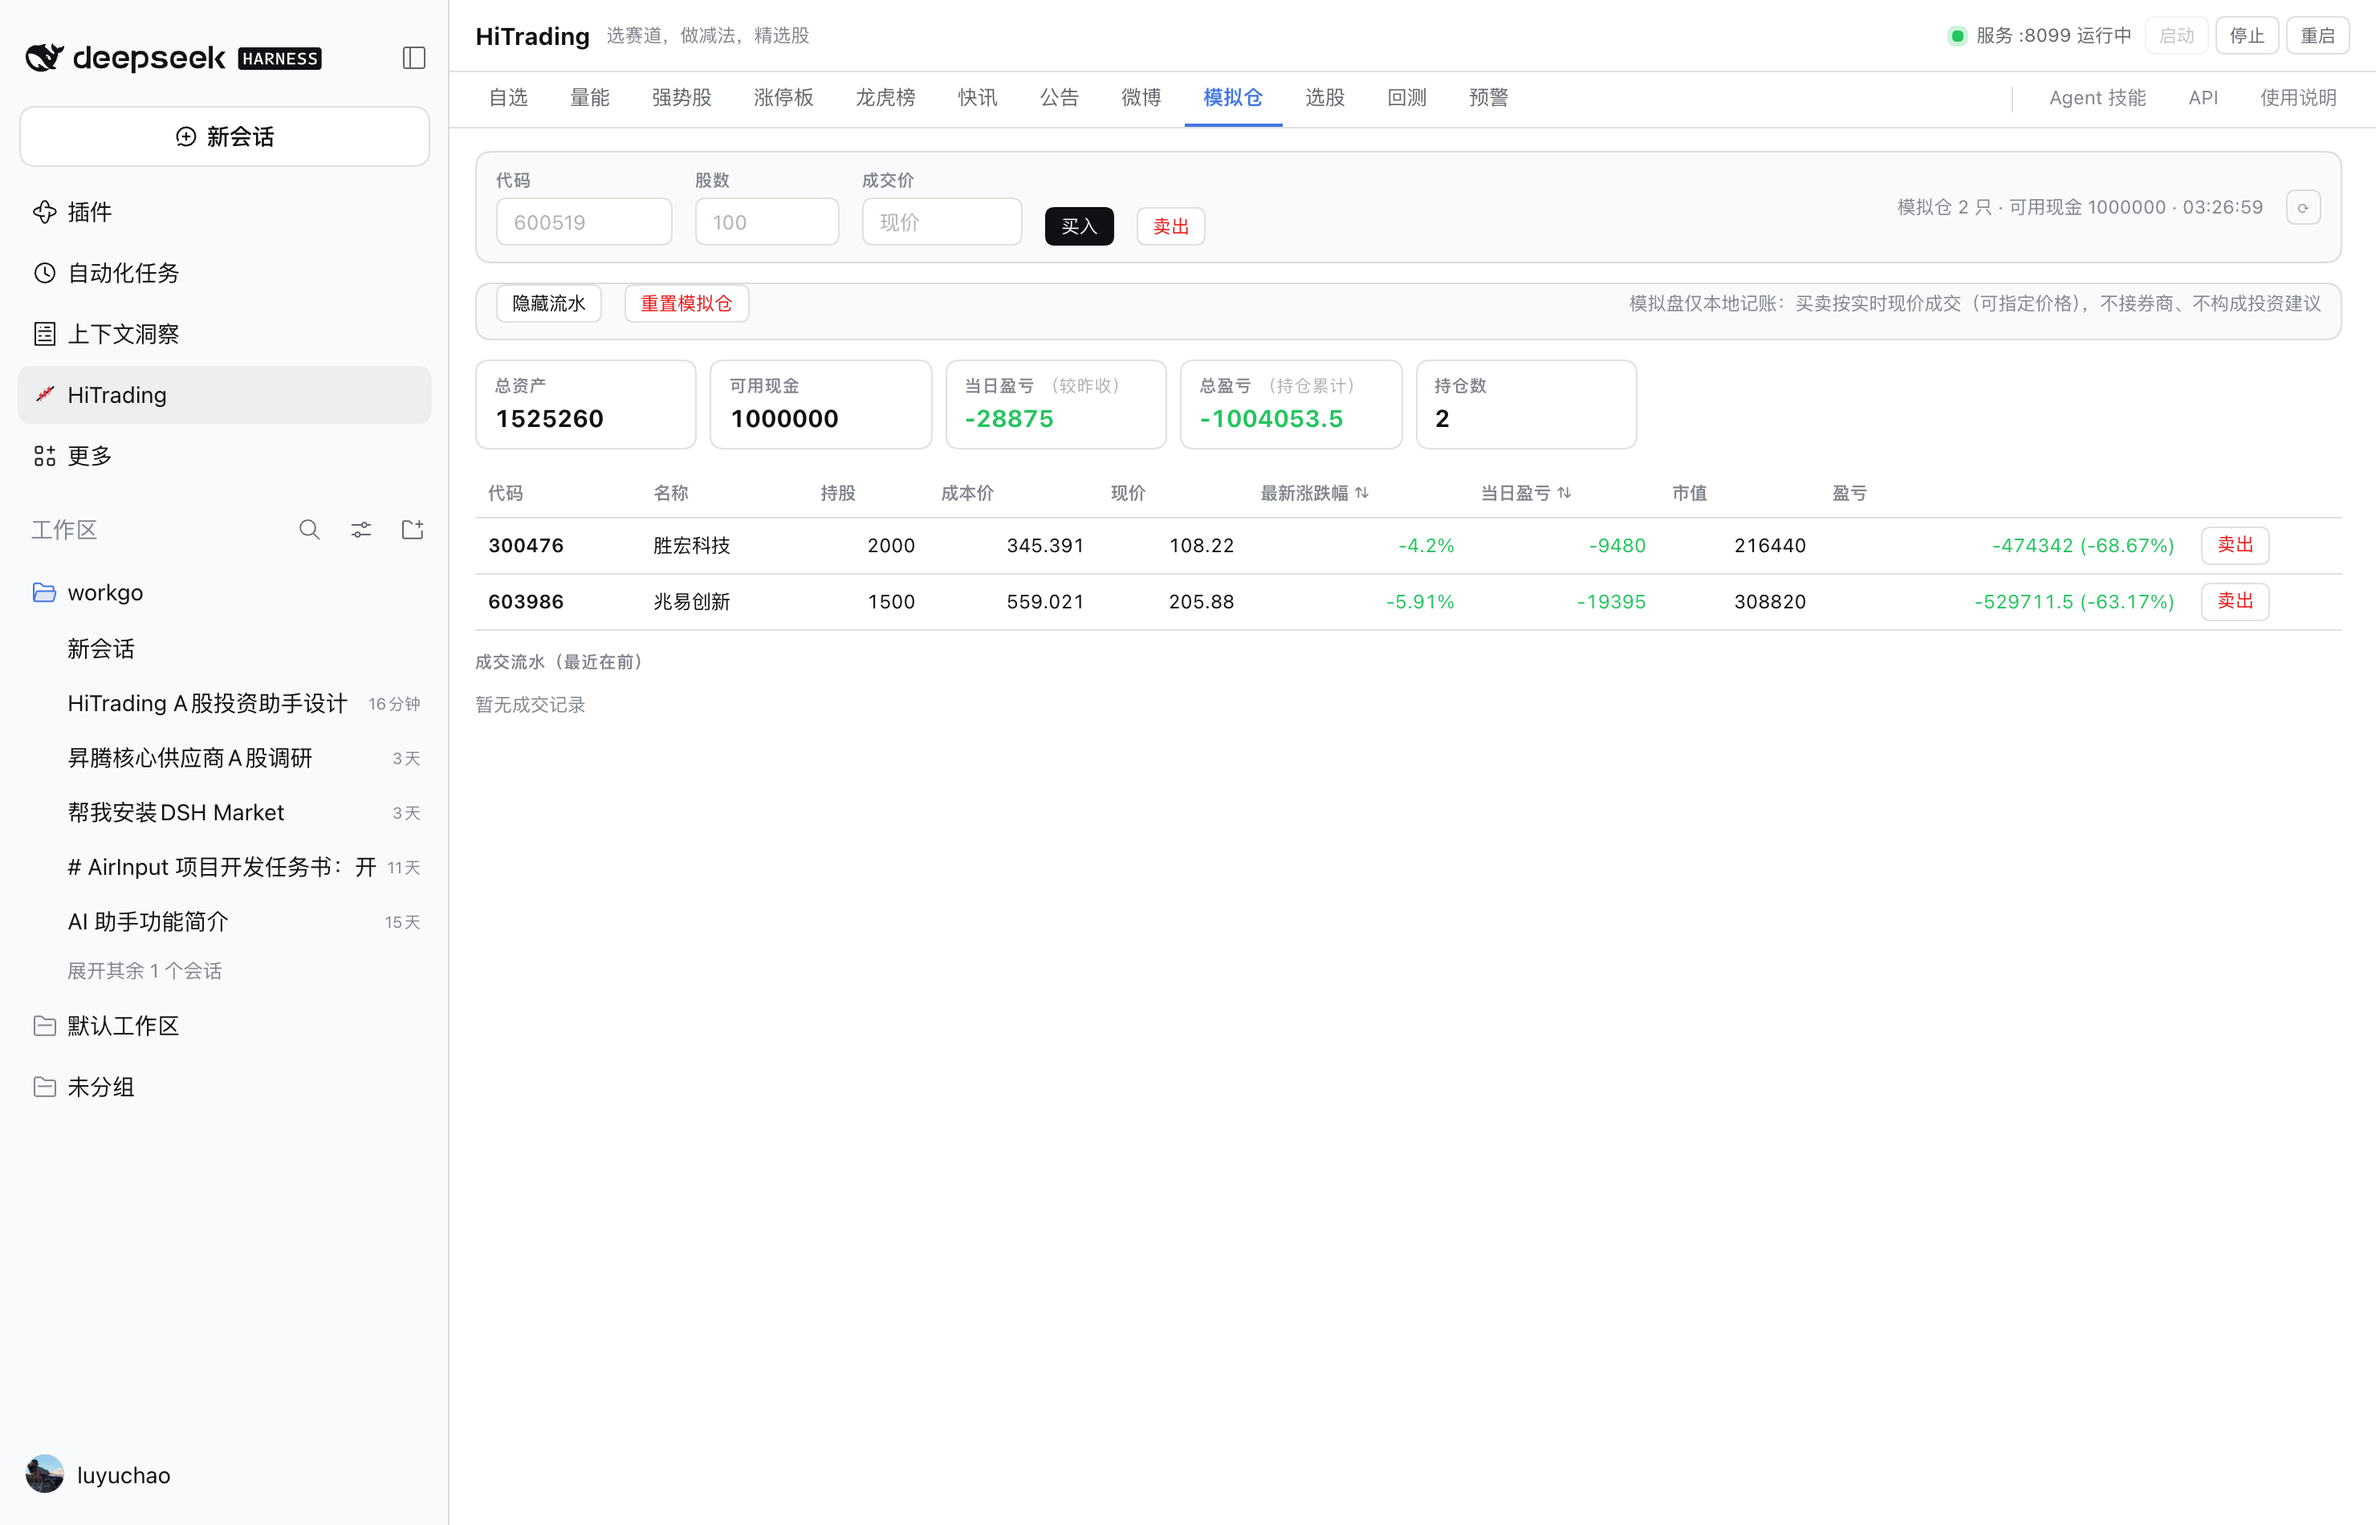
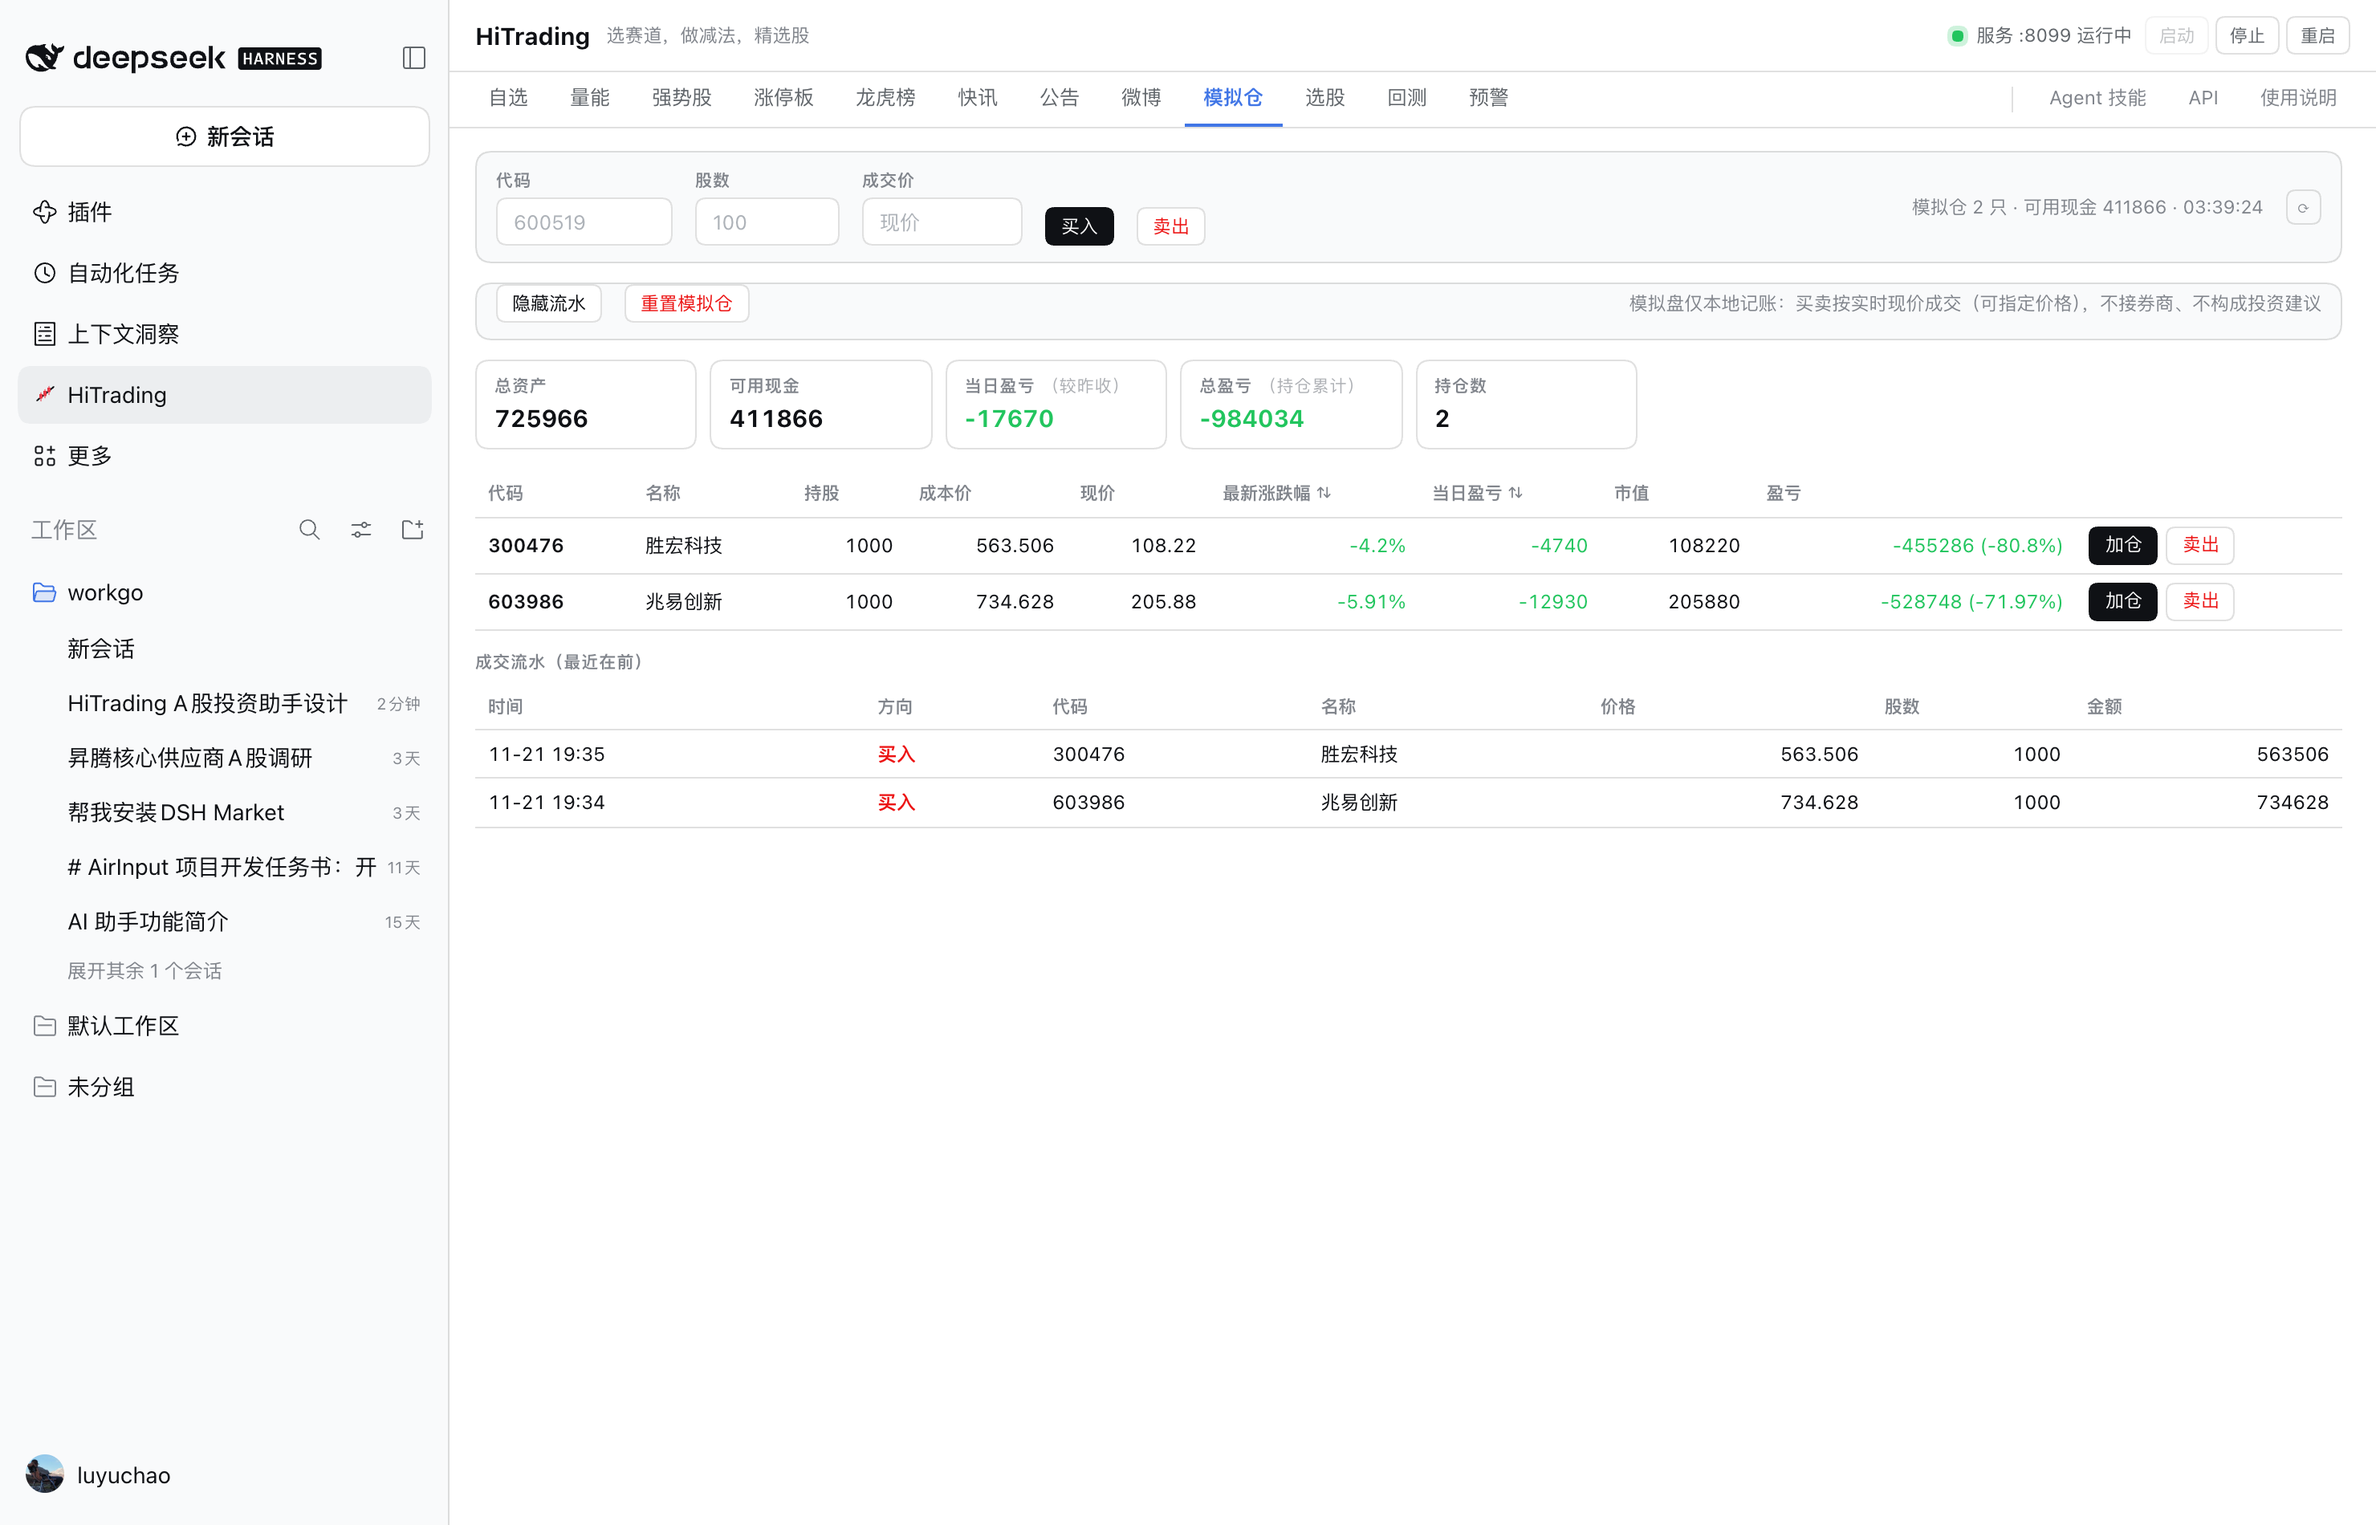
feat: add per-row 加仓 button to simulated portfolio positions
- Each position row now has 加仓/卖出 buttons. 加仓 pre-fills the code,
  clears shares (user enters the increment) and shows a dismissible intent
  chip; buy uses weighted-average cost on the backend (no server change).
  卖出 pre-fills code + full holding; both show an intent chip for clear
  click feedback (same lesson as the 强势股 +自选 fix).
- Docs/SKILL/README synced; portfolio screenshot regenerated from live GUI.
- Smoke harness extended to 32 assertions, all passing.

diff --git a/client.js b/client.js
@@ -69,6 +69,10 @@ window.__ModuleLoader__.load({
 .htx-btnOk{color:var(--dsw-alias-state-success-primary,#1a7f37);border-color:var(--dsw-alias-state-success-primary,#1a7f37)}
 .htx-btnDim{color:var(--dsw-alias-label-tertiary)}
 .htx-btnSm{height:24px;padding:0 9px;font-size:11.5px;border-radius:7px}
+.htx-rowBtns{display:inline-flex;gap:5px;white-space:nowrap}
+.htx-intent{display:inline-flex;align-items:center;gap:6px;padding:3px 8px;border:1px solid var(--dsw-alias-border-l3);border-radius:7px;background:var(--dsw-alias-interactive-bg-hover);font-size:11.5px;color:var(--dsw-alias-label-secondary);white-space:nowrap}
+.htx-intentX{border:none;background:0 0;color:var(--dsw-alias-label-tertiary);font-size:13px;line-height:1;cursor:pointer;padding:0 2px}
+.htx-intentX:hover{color:var(--dsw-alias-label-primary)}
 .htx-seg{display:inline-flex;border:.5px solid var(--dsw-alias-border-l3);border-radius:8px;overflow:hidden;background:var(--dsw-alias-bg-base)}
 .htx-segBtn{height:28px;padding:0 13px;border:none;background:0 0;color:var(--dsw-alias-label-secondary);font:inherit;font-size:12px;cursor:pointer;white-space:nowrap}
 .htx-segBtn+.htx-segBtn{border-left:.5px solid var(--dsw-alias-border-l3)}
@@ -1652,9 +1656,10 @@ window.__ModuleLoader__.load({
       const [busy, setBusy] = useState(null);   // null | 'buy' | 'sell' | 'reset'
       const [sort, setSort] = useState({ key: null, dir: null });
       const [showTrades, setShowTrades] = useState(false);
+      const [intent, setIntent] = useState(null); // { side:'buy'|'sell', symbol, name } 行内按钮预填的意图
       const trades = useData(() => (showTrades ? api('portfolio.trades') : Promise.resolve(null)), [showTrades]);
       const data = useData(() => api('portfolio.list'), [], { refreshMs: 15000 });
-      const set = (k) => (e) => setForm((f) => ({ ...f, [k]: e.target.value }));
+      const set = (k) => (e) => { if (k === 'symbol' && intent) setIntent(null); setForm((f) => ({ ...f, [k]: e.target.value })); };
       const trade = async (side) => {
         const code = form.symbol.trim();
         if (!/^\d{6}$/.test(code)) { notifyError('请输入 6 位股票代码'); return; }
@@ -1666,6 +1671,7 @@ window.__ModuleLoader__.load({
         try {
           const r = await api(`portfolio.${side}`, { symbol: code, shares, price });
           setForm({ symbol: '', shares: '', price: '' });
+          setIntent(null);
           data.reload();
           if (showTrades) trades.reload();
           notifyOk(`${side === 'buy' ? '买入' : '卖出'}成交：${r.name || code} ${r.price}×${shares}，可用现金 ${fmt(r.cash)}`);
@@ -1687,7 +1693,13 @@ window.__ModuleLoader__.load({
         { label: '当日盈亏', headerTitle: '相对昨收的当日持仓浮动盈亏 =（现价 − 昨收）× 股数', render: (r) => (r.dayPnl == null ? '-' : `${r.dayPnl >= 0 ? '+' : ''}${fmt(r.dayPnl)}`), className: (r) => (r.dayPnl == null ? '' : r.dayPnl >= 0 ? 'htx-up' : 'htx-down'), align: 'right', sortable: true, sortValue: (r) => (r.dayPnl ?? null) },
         { label: '市值', key: 'marketValue', align: 'right' },
         { label: '盈亏', headerTitle: '持仓累计盈亏 =（现价 − 成本价）× 股数', render: (r) => `${fmt(r.pnl)} (${fmt(r.pnlPct)}%)`, className: (r) => (r.pnl >= 0 ? 'htx-up' : 'htx-down'), align: 'right' },
-        { label: '', render: (r) => h('button', { className: 'htx-btn htx-btnSm htx-btnDanger', onClick: () => { setForm({ symbol: r.symbol, shares: String(r.shares), price: '' }); } }, '卖出') },
+        { label: '', render: (r) => h('span', { className: 'htx-rowBtns' },
+            h('button', {
+              className: 'htx-btn htx-btnSm htx-btnPrimary',
+              title: `给 ${r.name || r.symbol} 加仓：预填代码，输入追加股数后点「买入」（成本按加权平均更新）`,
+              onClick: () => { setForm({ symbol: r.symbol, shares: '', price: '' }); setIntent({ side: 'buy', symbol: r.symbol, name: r.name }); },
+            }, '加仓'),
+            h('button', { className: 'htx-btn htx-btnSm htx-btnDanger', title: `卖出 ${r.name || r.symbol}`, onClick: () => { setForm({ symbol: r.symbol, shares: String(r.shares), price: '' }); setIntent({ side: 'sell', symbol: r.symbol, name: r.name }); } }, '卖出')) },
       ];
       const items = data.value?.items || [];
       const tp = data.value?.totalPnl;
@@ -1719,6 +1731,9 @@ window.__ModuleLoader__.load({
           h(Field, { label: '成交价' }, h('input', { className: 'htx-input', style: { width: 100 }, placeholder: '现价', title: '留空按实时现价成交，可输入指定价格（限价模拟）', value: form.price, onChange: set('price') })),
           tradeBtn('buy', '买入'),
           tradeBtn('sell', '卖出'),
+          intent ? h('span', { className: 'htx-intent' },
+            `${intent.side === 'buy' ? '加仓' : '减仓'}：${intent.name || intent.symbol}`,
+            h('button', { className: 'htx-intentX', title: '取消预填', onClick: () => setIntent(null) }, '×')) : null,
           h('span', { className: 'htx-meta' },
             `模拟仓 ${items.length} 只`,
             cashV != null ? ` · 可用现金 ${fmt(cashV)}` : '',

diff --git a/README.md b/README.md
@@ -22,7 +22,7 @@
 | 快讯 | A股 7×24 快讯：监管/宏观/行情分类标记、监管动态提醒卡、只看自选 |
 | 公告 | 个股公告：类型分类（业绩/激励/并购/增减持/分红/融资/治理）、按代码查询、一键加自选 |
 | 微博 | 微博监控：博主筛选、互动数、已提取标记、**提取股票**（模型解析写入自选） |
-| 模拟仓 | 带 171 万现金账户的模拟交易：买入/卖出按实时现价成交（可指定价格）+ **当日盈亏**（较昨收）/累计盈亏 + 成交流水 |
+| 模拟仓 | 带 171 万现金账户的模拟交易：买入/卖出按实时现价成交（可指定价格），持仓行可**加仓/卖出** + **当日盈亏**（较昨收）/累计盈亏 + 成交流水 |
 | 选股 | 排序字段 + 区间过滤（市盈率/市值/涨跌幅/换手）+ 结果表 |
 | 回测 | 策略选择 + 参数 + **权益曲线图** + 收益/回撤/夏普/胜率 |
 | 预警 | 价格/涨跌幅规则增删 + 触发状态 |

diff --git a/skills/hitrading/SKILL.md b/skills/hitrading/SKILL.md
@@ -236,7 +236,7 @@ curl -s -X POST http://127.0.0.1:8099/api -H "Content-Type: application/json" \
 
 ### 模拟仓（买卖 / 持仓 / 流水）
 
-纯本地记账的模拟交易，**不接券商、不下真实订单**。带现金账户（初始 171 万 + 已有持仓按成本价折算为初始投入）。买入/卖出默认按实时现价成交，可指定价格（限价模拟）。
+纯本地记账的模拟交易，**不接券商、不下真实订单**。带现金账户（初始 171 万 + 已有持仓按成本价折算为初始投入）。买入/卖出默认按实时现价成交，可指定价格（限价模拟）。面板持仓行末的「加仓」预填代码并清空股数（输入追加股数后点买入，成本按加权平均更新），「卖出」预填代码与全部持股（可改股数部分卖出）。
 
 ```bash
 # 查询持仓（含现金、总资产、当日盈亏与累计盈亏）
